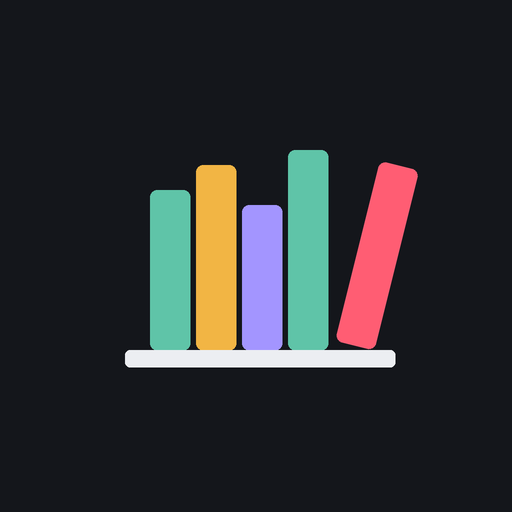
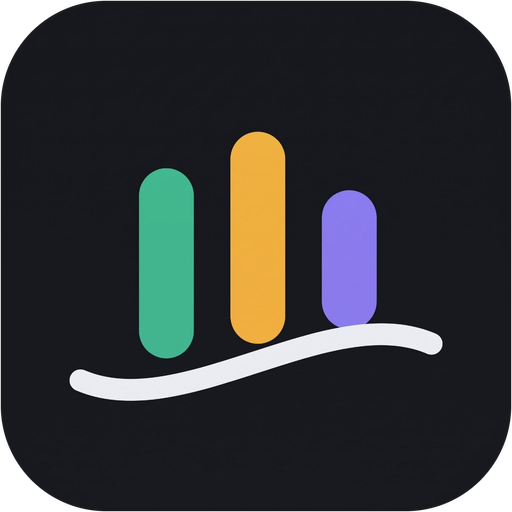
Nuova icona dell'app
Risolve #2

Claude-Session: https://claude.ai/code/session_01Wj9XAkW27tJ5FnvVuz22kt

diff --git a/sw.js b/sw.js
@@ -1,7 +1,7 @@
 // Scaffale: fa funzionare l'app anche senza rete (i dati sono già sul telefono).
 // Quando aggiorni i file su GitHub, cambia il numero qui sotto.
-const CACHE = 'scaffale-7';
-const SHELL = ['./', './index.html', './style.css', './app.js', './cloud.js', './import.js', './manifest.webmanifest', './icon-192.png', './icon-512.png', './apple-touch-icon.png'];
+const CACHE = 'scaffale-8';
+const SHELL = ['./', './index.html', './style.css', './app.js', './cloud.js', './import.js', './manifest.webmanifest', './icon-192.png', './icon-512.png', './icon-maskable-512.png', './apple-touch-icon.png'];
 
 self.addEventListener('install', (e) => {
   e.waitUntil(caches.open(CACHE).then((c) => c.addAll(SHELL)).then(() => self.skipWaiting()));
